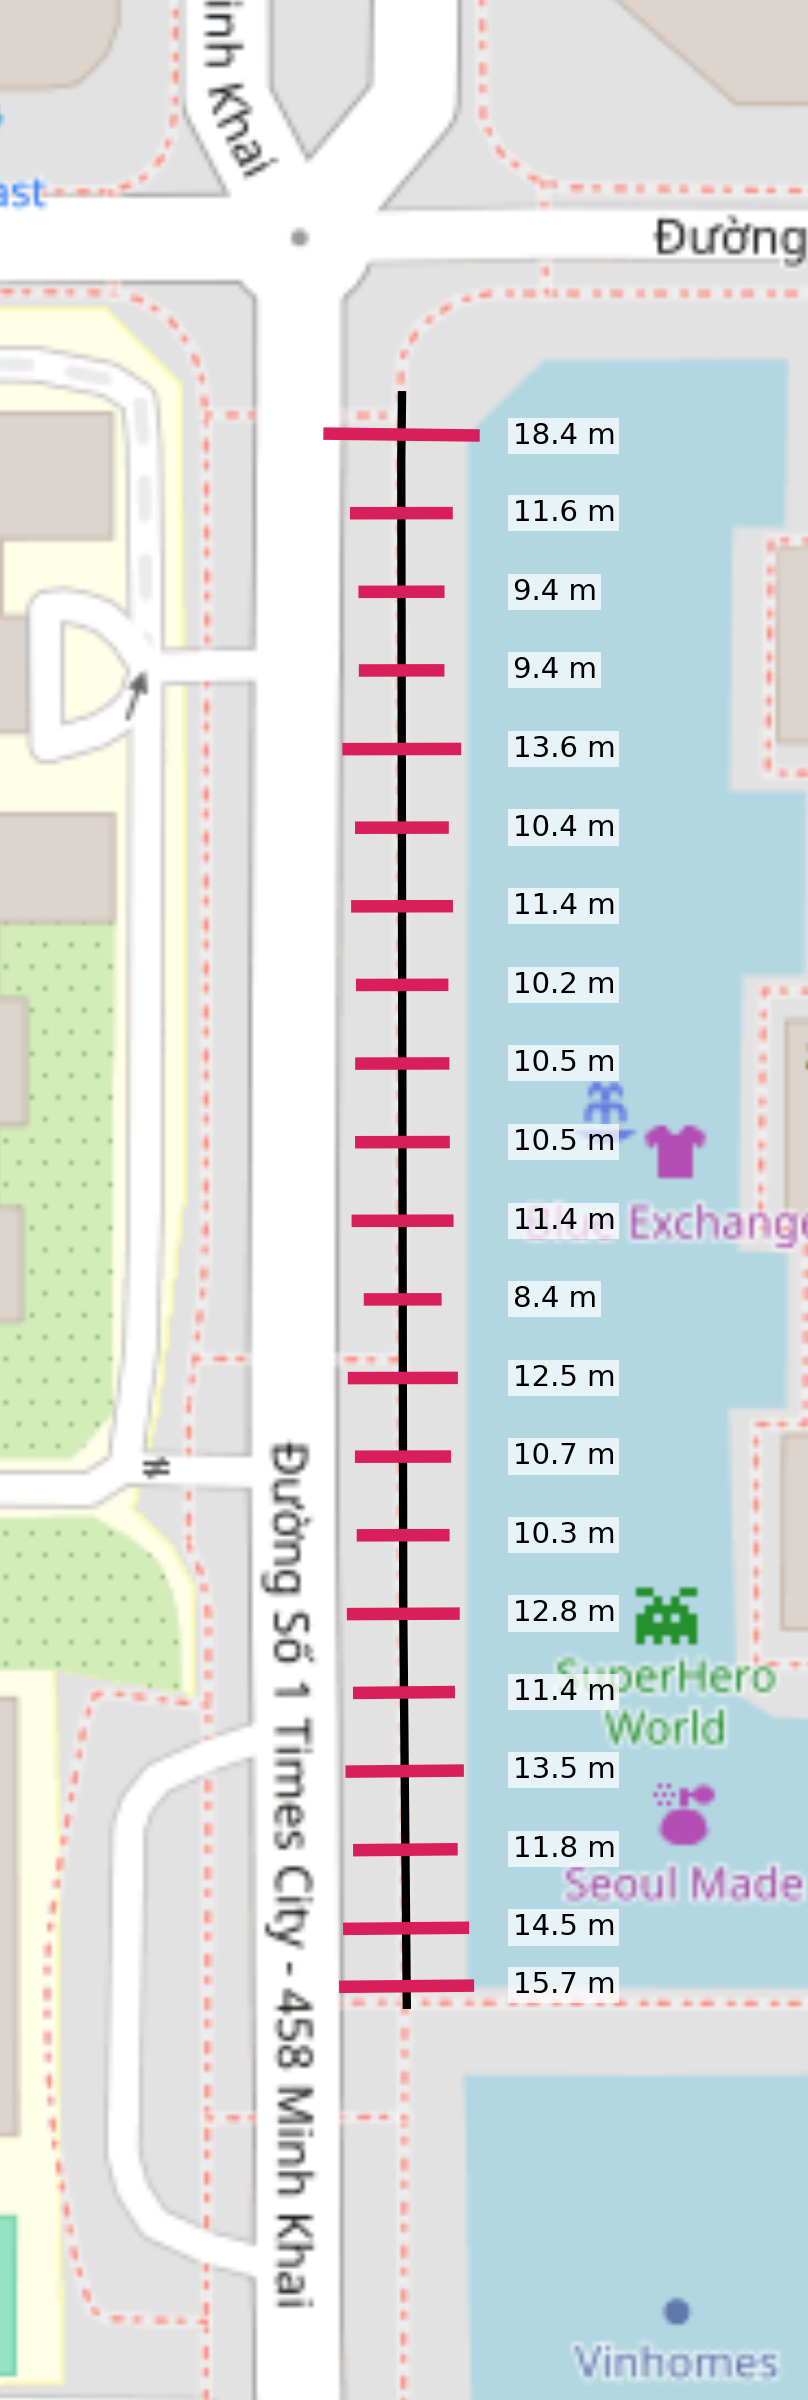
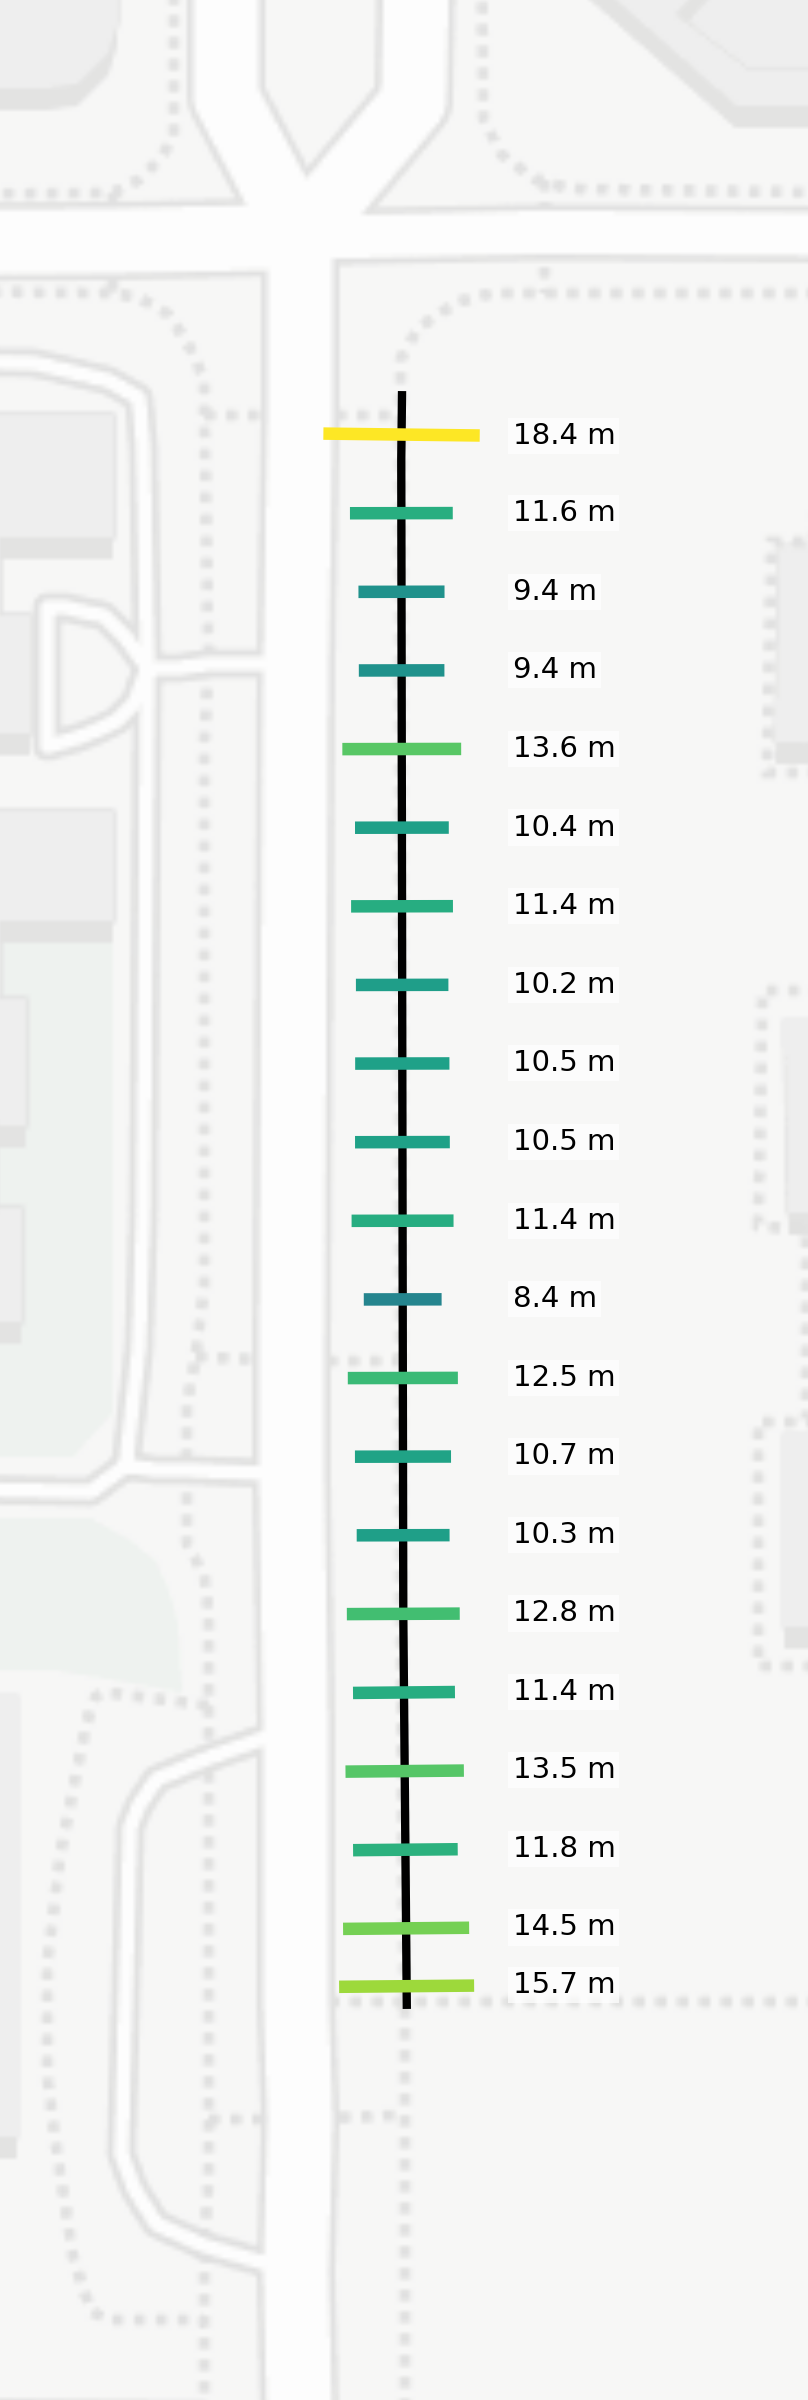
Visual nits

diff --git a/scripts/segment_way_width.py b/scripts/segment_way_width.py
@@ -199,7 +199,7 @@ def main() -> int:
     ctx.add_basemap(
         ax,
         crs="EPSG:3857",
-        source=ctx.providers.OpenStreetMap.Mapnik,
+        source=ctx.providers.CartoDB.PositronNoLabels,
         alpha=0.9,
         attribution="",
         attribution_size=0,
@@ -209,6 +209,8 @@ def main() -> int:
     line_x, line_y = line_web.xy
     ax.plot(line_x, line_y, color="black", linewidth=2, label="OSM way", zorder=3)
 
+    valid_widths = [width for width in widths if not math.isnan(width) and width > 0]
+    vmax = max(valid_widths) if valid_widths else 1.0
     label_positions = []
     for (mid_x, mid_y), width, row in zip(midpoints, widths, rows):
         if math.isnan(width) or width == 0:
@@ -225,7 +227,7 @@ def main() -> int:
         nx = -dy / length
         ny = dx / length
         half = width / 2
-        color = "#d81e5b"
+        color = plt.cm.viridis(min(width / vmax, 1.0))
         start_x, start_y = to_web.transform(mid_x - nx * half, mid_y - ny * half)
         end_x, end_y = to_web.transform(mid_x + nx * half, mid_y + ny * half)
         ax.plot(